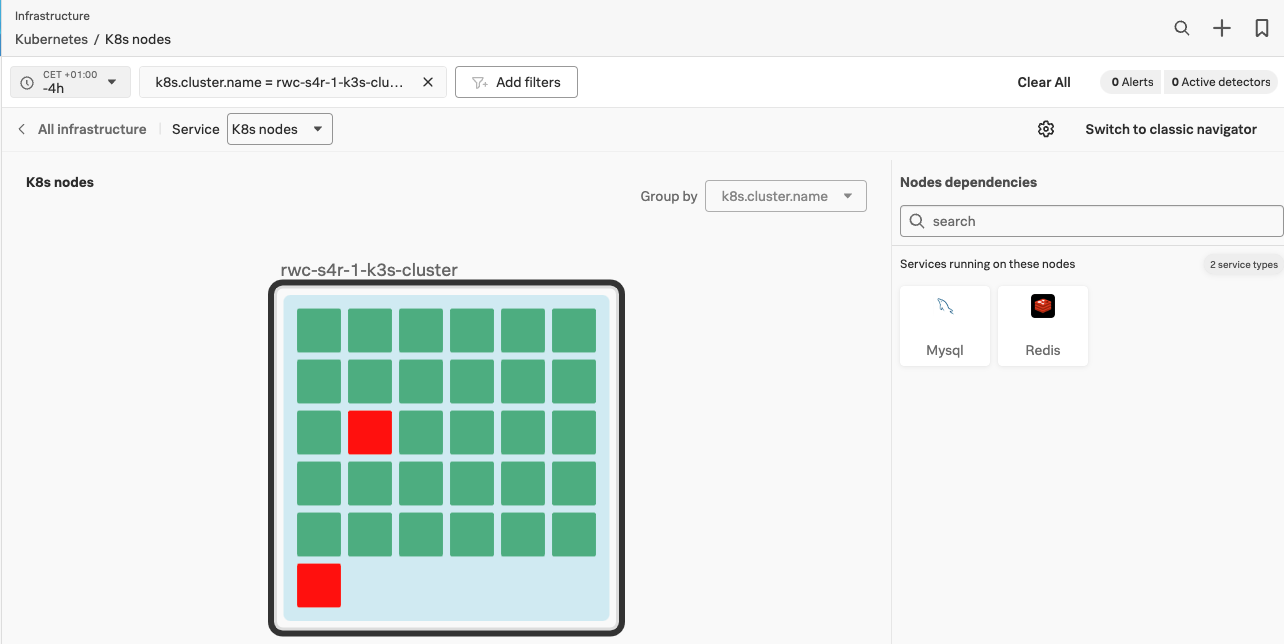
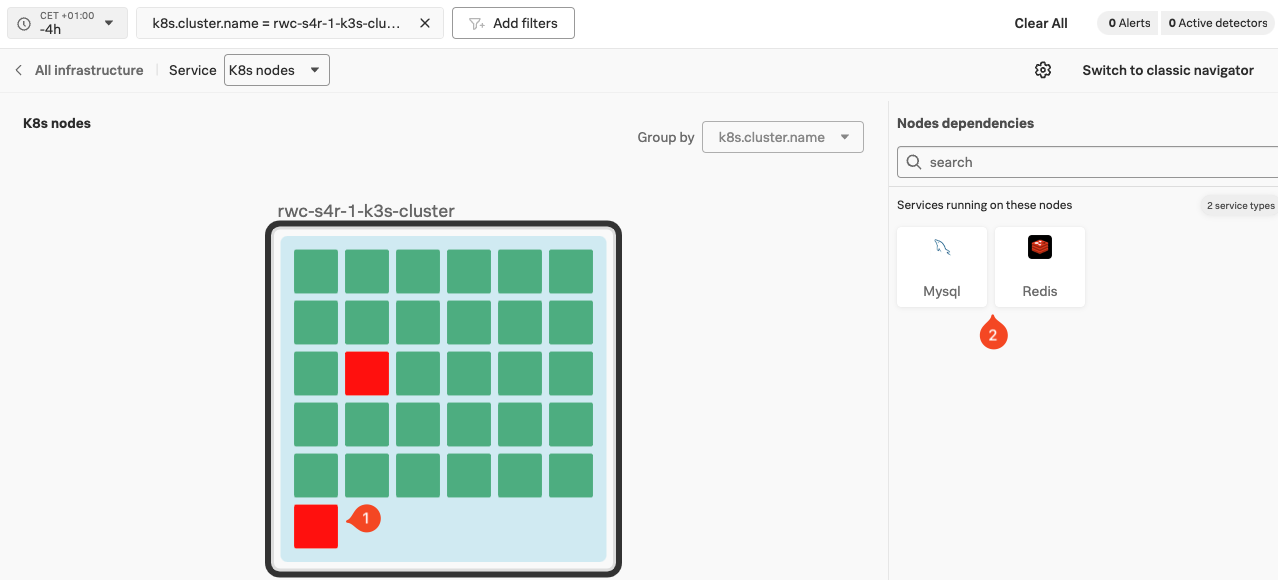
new infra excersise

diff --git a/content/en/s4r/3-quick-tour/6-infrastructure-home/2-infrastructure-home.md b/content/en/s4r/3-quick-tour/6-infrastructure-home/2-infrastructure-home.md
@@ -26,16 +26,33 @@ Using the Infrastructure pane, we can select the infrastructure/technology we ar
 
 ![cluster](../images/k8s-cluster.png)
 
- A- steps fro after lunch
+* The Kubernetes Navigator uses color to indicate health. As you can see there two pods or services that are unhealthy and in Failed state (1). The rest are healthy and running. This is not uncommon in shared Kubernetes environments, so we replicated that for the workshop.
+* Note the two **Related content** tiles at the side, under *Nodes dependency* (2), one for Mysql and one for Redis.
+{{% /notice %}}
 
-* explain the red and green boxes, 
-* note the two detected services on this cluster, Mysql and REdis introduce related content.
-* clikc on redis
-* find the REdis running on your ncluster  (naming convention). See metrics for you data storee
-* note therelated  Kubneteres link,  click to go back to you cluster 
-* click on  cluster in the tree.. back to start.
+{{% notice title="Related Content" style="info" %}}
+
+The Splunk Observability User Interface will attempt to show you additional information that is related and relevant to what you're actively looking at.
+A good example of this is the Kubernetes Navigator showing you **Related Content** tiles in the information Pane for services discovered running on this node.
+
+{{% /notice %}}
+
+{{% notice title=" Related Content Exercise" style="green" icon="running" %}}
+
+* Find and click on the **Redis** tile. This will take to the list of the *Redis* Datastore services. Select the one running on your cluster, the naming convention is **redis-[NAME OF WORKSHOP]**.
+
+ ![redis](../images/redis.png)
+
+* This will bring you to the REDIS Data stoer Navigator., this will show chart with metric data from the active *Redis* cluster from our e-commerce site.
+* Note that again we have **related Content** tile, this time for Kubernetes. Click the tile, it will bring us back into the Kubernetes Navigator, this time at the Pod level showing the Pod that runs the Redis Service.
+* To return to the Cluster level, simply click on the link *Cluster* (1) at the top of the screen.
+
+ ![node](../images/node-link.png)
+
 {{% /notice %}}
 <!-- 
 Either move to the next page and run an *optional* but more detailed exercise based on Kubernetes and the data stores used in the *Online Boutique* application or just go shopping! -->
 
-This completes the tour of Splunk Observability Cloud.  Here, have some some virtual 💶 and let's go and look at our e-commerce site, the 'Online Boutique' and do some shopping.
+This completes the tour of Splunk Infrastructure and Splunk Observability Cloud.  
+
+Here, have some some virtual 💶 and let's go and look at our e-commerce site, the 'Online Boutique' and do some shopping.
